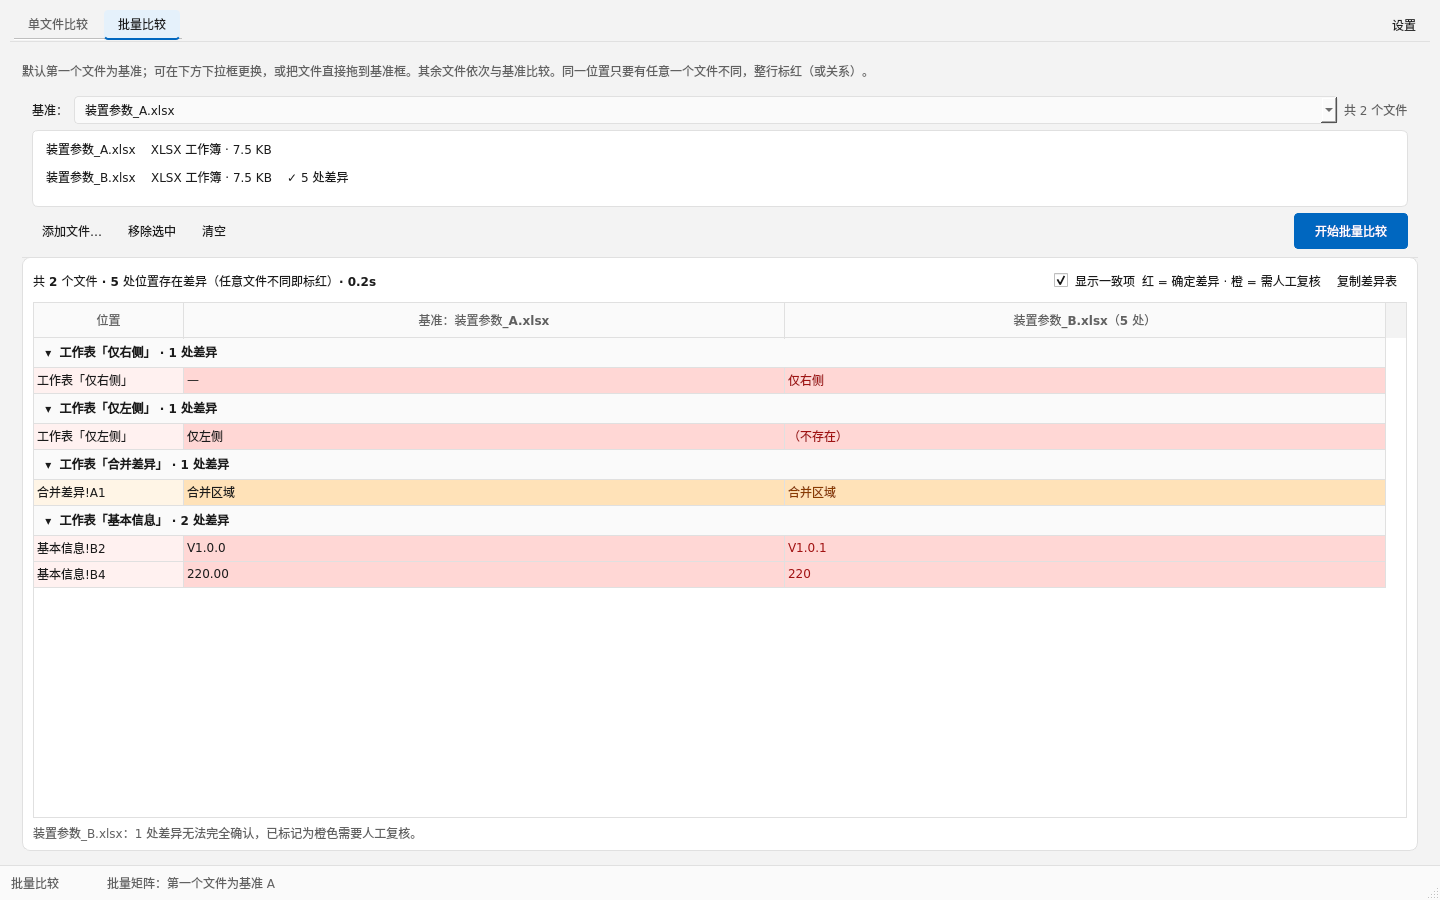
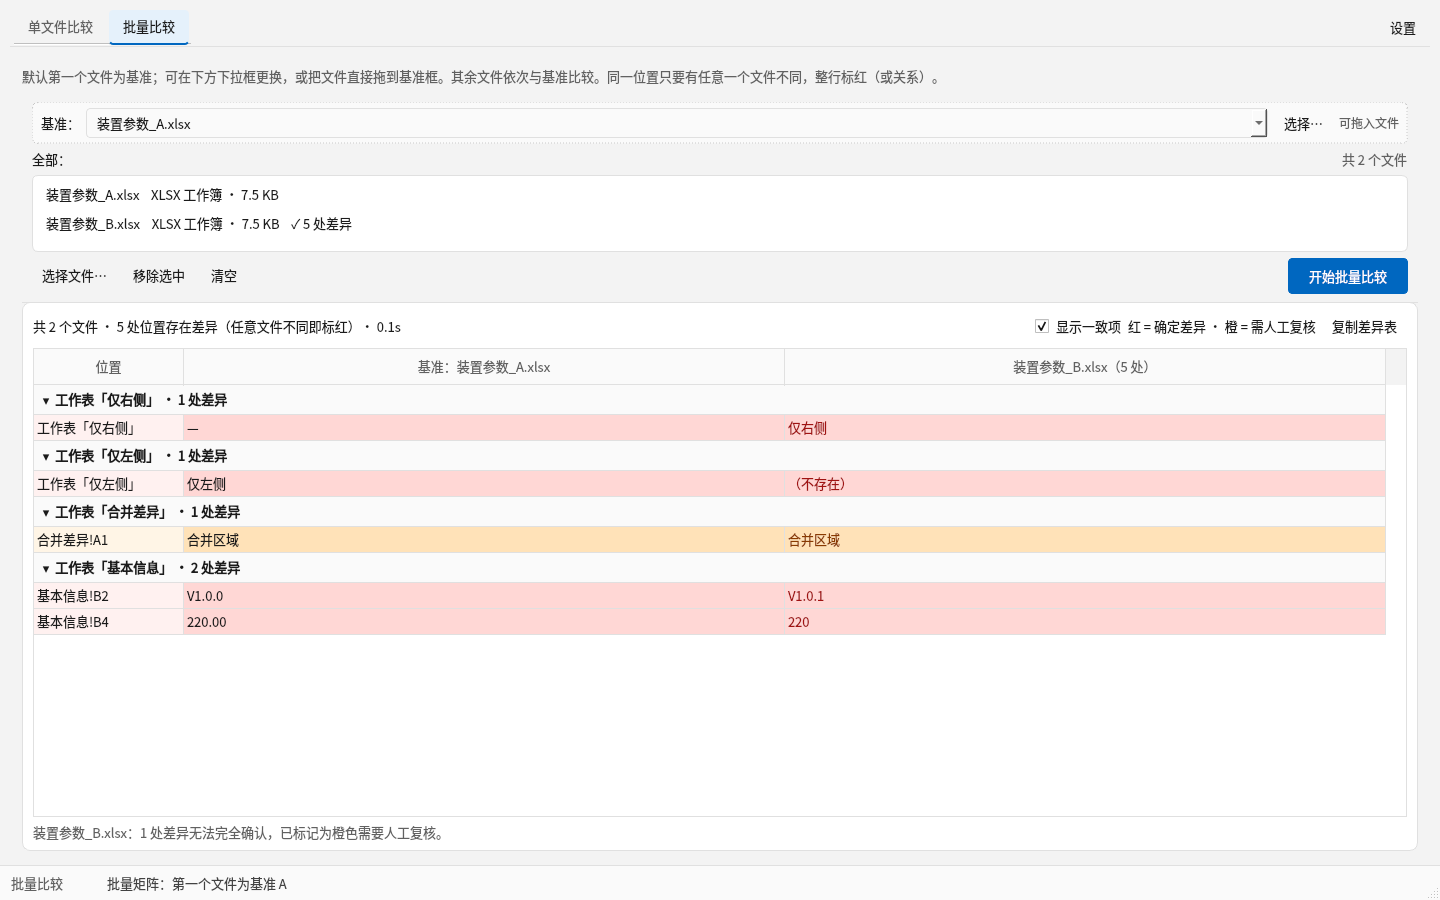
EngineerDiff 1.2.2: exact native title, baseline drop zone/all label/manual choices, unify Select buttons

diff --git a/src/engineerdiff/ui/batch_dialog.py b/src/engineerdiff/ui/batch_dialog.py
@@ -7,7 +7,7 @@ import threading
 import time
 from pathlib import Path
 
-from PySide6.QtCore import QThread, Qt, Signal
+from PySide6.QtCore import QEvent, QThread, Qt, Signal
 from PySide6.QtGui import QBrush, QColor, QDragEnterEvent, QDropEvent
 from PySide6.QtWidgets import (
     QAbstractItemView,
@@ -104,6 +104,103 @@ class _BaselineCombo(QComboBox):
             super().dropEvent(event)
 
 
+class _BaselineDropZone(QFrame):
+    """基准行：整行可接收资源管理器文件拖放（包括子控件上的拖放）。
+
+    QComboBox 自身会消费 Drag/Drop，且其弹出列表是独立窗口；因此在整行框架
+    安装递归事件过滤器，保证从“基准”文字、下拉框、提示或选择按钮上放下文件
+    都能被识别。
+    """
+
+    paths_dropped = Signal(list)
+
+    def __init__(self, parent=None):
+        super().__init__(parent)
+        self.setObjectName("baselineZone")
+        self.setAcceptDrops(True)
+        self._app_filter_installed = False
+
+    def install_drop_proxy(self) -> None:
+        widgets = [self, *self.findChildren(QWidget)]
+        for widget in widgets:
+            try:
+                widget.setAcceptDrops(True)
+                widget.installEventFilter(self)
+            except RuntimeError:
+                continue
+        # 某些平台/Qt 样式中，拖放事件目标可能是 QComboBox 的内部子控件；
+        # 再挂一层应用级过滤器，按“鼠标是否落在基准行”兜底。
+        try:
+            if not self._app_filter_installed:
+                from PySide6.QtWidgets import QApplication
+
+                app = QApplication.instance()
+                if app is not None:
+                    app.installEventFilter(self)
+                    self._app_filter_installed = True
+        except Exception:
+            pass
+
+    def _inside_zone(self, obj, event) -> bool:
+        if not self.isVisible():
+            return False
+        try:
+            pos = event.position().toPoint()
+        except Exception:
+            try:
+                pos = event.pos()
+            except Exception:
+                return False
+        try:
+            if isinstance(obj, QWidget):
+                global_pos = obj.mapToGlobal(pos)
+                return self.rect().contains(self.mapFromGlobal(global_pos))
+        except Exception:
+            pass
+        return False
+
+    @staticmethod
+    def _url_paths(mime) -> list[str]:
+        if mime is None or not mime.hasUrls():
+            return []
+        return [u.toLocalFile() for u in mime.urls() if u.isLocalFile()]
+
+    def _accept(self, event) -> bool:
+        if self._url_paths(event.mimeData()):
+            event.acceptProposedAction()
+            return True
+        return False
+
+    def eventFilter(self, obj, event):  # noqa: N802
+        etype = event.type()
+        if etype in (QEvent.Type.DragEnter, QEvent.Type.DragMove):
+            if self._accept(event) and (obj is self or isinstance(obj, QWidget) and self._inside_zone(obj, event)):
+                return True
+        elif etype == QEvent.Type.Drop:
+            paths = self._url_paths(event.mimeData())
+            if paths and (obj is self or isinstance(obj, QWidget) and self._inside_zone(obj, event)):
+                self.paths_dropped.emit(paths)
+                event.acceptProposedAction()
+                return True
+        return super().eventFilter(obj, event)
+
+    def dragEnterEvent(self, event: QDragEnterEvent) -> None:  # noqa: N802
+        if not self._accept(event):
+            super().dragEnterEvent(event)
+
+    def dragMoveEvent(self, event) -> None:  # noqa: N802
+        if not self._accept(event):
+            super().dragMoveEvent(event)
+
+    def dropEvent(self, event: QDropEvent) -> None:  # noqa: N802
+        paths = self._url_paths(event.mimeData())
+        if paths:
+            self.paths_dropped.emit(paths)
+            event.acceptProposedAction()
+        else:
+            super().dropEvent(event)
+
+
 class BatchWorker(QThread):
     progress = Signal(int, str)
     candidate_done = Signal(object)
@@ -192,16 +289,34 @@ class BatchCompareDialog(QDialog):
         fp = QVBoxLayout(file_panel)
         fp.setContentsMargins(10, 8, 10, 8)
         fp.setSpacing(6)
-        fph = QHBoxLayout()
+        self.baseline_zone = _BaselineDropZone()
+        self.baseline_zone.setMinimumHeight(42)
+        fph = QHBoxLayout(self.baseline_zone)
+        fph.setContentsMargins(8, 5, 8, 5)
+        fph.setSpacing(6)
         self.lbl_baseline = QLabel("基准：")
         fph.addWidget(self.lbl_baseline)
         self.combo_baseline = _BaselineCombo()
         self.combo_baseline.setMinimumWidth(220)
         self.combo_baseline.paths_dropped.connect(self._set_baseline_from_paths)
         fph.addWidget(self.combo_baseline, 1)
+        self.btn_pick_baseline = QPushButton("选择…")
+        self.btn_pick_baseline.setObjectName("tool")
+        self.btn_pick_baseline.setToolTip("手动选择基准文件；也可以直接把文件拖到这一行")
+        fph.addWidget(self.btn_pick_baseline)
+        self.lbl_baseline_hint = QLabel("可拖入文件")
+        fph.addWidget(self.lbl_baseline_hint)
+        self.baseline_zone.paths_dropped.connect(self._set_baseline_from_paths)
+        self.baseline_zone.install_drop_proxy()
+        fp.addWidget(self.baseline_zone)
+
+        all_head = QHBoxLayout()
+        self.lbl_all = QLabel("全部：")
+        all_head.addWidget(self.lbl_all)
+        all_head.addStretch(1)
         self.lbl_count = QLabel("共 0 个文件")
-        fph.addWidget(self.lbl_count)
-        fp.addLayout(fph)
+        all_head.addWidget(self.lbl_count)
+        fp.addLayout(all_head)
 
         self.file_list = _FileList()
         self.file_list.setMaximumHeight(150)
@@ -209,7 +324,7 @@ class BatchCompareDialog(QDialog):
         fp.addWidget(self.file_list, 1)
 
         btn_row = QHBoxLayout()
-        self.btn_add = QPushButton("添加文件…")
+        self.btn_add = QPushButton("选择文件…")
         self.btn_add.setObjectName("tool")
         self.btn_remove = QPushButton("移除选中")
         self.btn_remove.setObjectName("tool")
@@ -291,6 +406,7 @@ class BatchCompareDialog(QDialog):
         root.addLayout(close_row)
 
         self.btn_add.clicked.connect(self._choose_files)
+        self.btn_pick_baseline.clicked.connect(self._choose_baseline)
         self.btn_remove.clicked.connect(self._remove_selected)
         self.btn_clear.clicked.connect(self.file_list.clear)
         self.btn_start.clicked.connect(self._start)
@@ -324,6 +440,12 @@ class BatchCompareDialog(QDialog):
         self.lbl_summary.setStyleSheet(f"font-weight:600;color:{p.text};")
         self.lbl_status.setStyleSheet(f"color:{p.text_secondary};")
         self.lbl_result_empty.setStyleSheet(f"color:{p.text_secondary};")
+        self.lbl_all.setStyleSheet(f"font-weight:600;color:{p.text};")
+        self.lbl_baseline_hint.setStyleSheet(f"color:{p.text_secondary};font-size:9pt;")
+        self.baseline_zone.setStyleSheet(
+            f"QFrame#baselineZone {{ background:{p.secondary_surface};"
+            f"border:1px dashed {p.border_strong}; border-radius:6px; }}"
+        )
         self.table.setStyleSheet(
             f"QTableWidget {{ background:{p.card_bg}; border:1px solid {p.divider};"
             f"gridline-color:{p.divider}; color:{p.text}; }}"
@@ -395,6 +517,13 @@ class BatchCompareDialog(QDialog):
             except Exception:
                 continue
         self.lbl_status.setText("基准已切换；点击“重新比较”生成新的差异矩阵。")
+
+    def _choose_baseline(self) -> None:
+        path, _ = QFileDialog.getOpenFileName(
+            self, "选择基准文件（会自动加入全部文件）", "", SUPPORTED_DIALOG_FILTER
+        )
+        if path:
+            self._set_baseline_from_paths([path])
 
     def _choose_files(self) -> None:
         paths, _ = QFileDialog.getOpenFileNames(
@@ -544,6 +673,8 @@ class BatchCompareDialog(QDialog):
         self.btn_clear.setEnabled(not running)
         self.file_list.setEnabled(not running)
         self.combo_baseline.setEnabled(not running and self.file_list.count() > 0)
+        self.btn_pick_baseline.setEnabled(not running)
+        self.baseline_zone.setEnabled(not running)
         self.btn_cancel.setVisible(running)
         self.btn_cancel.setEnabled(running)
 

diff --git a/src/engineerdiff/ui/main_window.py b/src/engineerdiff/ui/main_window.py
@@ -57,7 +57,7 @@ from .workers import CompareWorker
 class MainWindow(QMainWindow):
     def __init__(self, parent=None):
         super().__init__(parent)
-        self.setWindowTitle(f"{version.APP_NAME} by {version.AUTHOR}")
+        self.setWindowTitle(version.WINDOW_TITLE)
         self.resize(1440, 900)
         self.setMinimumSize(1050, 680)
         self._settings = AppSettings()
@@ -102,6 +102,17 @@ class MainWindow(QMainWindow):
         self._update_ui_state()
 
     # ================================================================== UI
+    def showEvent(self, event) -> None:  # noqa: N802
+        super().showEvent(event)
+        # 某些 Windows/Qt 组合会把 applicationDisplayName 追加到原生标题；
+        # 显示后强制写一次 HWND 文本，保证标题栏就是用户要求的精确文本。
+        try:
+            from PySide6.QtCore import QTimer
+
+            QTimer.singleShot(0, lambda: theme.set_native_title(self, version.WINDOW_TITLE))
+        except Exception:
+            pass
+
     def _build_ui(self) -> None:
         central = QWidget()
         self.setCentralWidget(central)
@@ -152,8 +163,8 @@ class MainWindow(QMainWindow):
         row1.setSpacing(6)
         self.left_edit = self._make_path_edit("选择基准文件 A（左）")
         self.right_edit = self._make_path_edit("选择待比较文件 B（右）")
-        self.btn_pick_left = self._tool_button("选择 A…", "选择基准文件 A")
-        self.btn_pick_right = self._tool_button("选择 B…", "选择待比较文件 B")
+        self.btn_pick_left = self._tool_button("选择", "选择基准文件 A")
+        self.btn_pick_right = self._tool_button("选择", "选择待比较文件 B")
         self.btn_reload_left = self._tool_button("↻", "重新加载 A 并重新比较")
         self.btn_reload_right = self._tool_button("↻", "重新加载 B 并重新比较")
         self.btn_swap = self._tool_button("⇄", "交换左右文件")

diff --git a/tests/test_ui_fluent.py b/tests/test_ui_fluent.py
@@ -42,7 +42,9 @@ def test_main_navigation_and_dark_theme(qapp):
     win = MainWindow()
     win.show()
     qapp.processEvents()
-    assert win.windowTitle() == "EngineerDiff by jzh"
+    assert win.windowTitle() == "EngineerDiff工程文件差异比较 by jzh"
+    assert win.btn_pick_left.text() == "选择"
+    assert win.btn_pick_right.text() == "选择"
     assert win.pages.count() == 2
     assert win.nav.count() == 2
     win.nav.setCurrentIndex(1)
@@ -119,4 +121,26 @@ def test_batch_baseline_can_be_set_from_drop_paths(qapp, tmp_path: Path):
     dlg._add_paths([str(c)])
     dlg._set_baseline_from_paths([str(c)])
     assert Path(dlg.combo_baseline.currentData()).resolve() == c.resolve()
+    assert dlg.lbl_all.text() == "全部："
+    assert dlg.file_list.count() == 3
+    dlg.close()
+
+
+@pytest.mark.gui
+def test_baseline_drop_event_is_handled(qapp, tmp_path: Path):
+    from PySide6.QtCore import QMimeData, QPointF, Qt, QUrl
+    from PySide6.QtGui import QDropEvent
+
+    from engineerdiff.ui.batch_dialog import BatchCompareDialog
+
+    a = tmp_path / "a.txt"; a.write_text("a\n", encoding="utf-8")
+    c = tmp_path / "c.txt"; c.write_text("c\n", encoding="utf-8")
+    dlg = BatchCompareDialog(None, AppSettings(), str(a))
+    dlg.show()
+    qapp.processEvents()
+    mime = QMimeData(); mime.setUrls([QUrl.fromLocalFile(str(c))])
+    event = QDropEvent(QPointF(12, 12), Qt.DropAction.CopyAction, mime,
+                       Qt.MouseButton.LeftButton, Qt.KeyboardModifier.NoModifier)
+    assert dlg.baseline_zone.eventFilter(dlg.combo_baseline, event) is True
+    assert dlg.file_list.count() == 2
     dlg.close()

diff --git a/src/engineerdiff/ui/theme.py b/src/engineerdiff/ui/theme.py
@@ -297,6 +297,17 @@ def apply_theme(mode_name: str | None = None, app=None) -> Palette:
     return _ACTIVE
 
 
+def set_native_title(window, text: str) -> None:
+    """Windows: 将原生标题栏文本精确设置为 ``text``，避免 Qt 追加应用显示名。"""
+    if sys.platform != "win32":
+        return
+    try:
+        hwnd = int(window.winId())
+        ctypes.windll.user32.SetWindowTextW(hwnd, str(text))
+    except Exception:
+        pass
+
+
 def apply_dark_title_bar(window) -> None:
     """Windows 10/11: 让原生标题栏跟随深色主题；失败时静默忽略。"""
     if sys.platform != "win32":

diff --git a/src/engineerdiff/app.py b/src/engineerdiff/app.py
@@ -71,7 +71,6 @@ def main(argv: list[str] | None = None) -> int:
         pass
     app = QApplication(argv)
     app.setApplicationName(version.APP_NAME)
-    app.setApplicationDisplayName(version.APP_NAME_CN)
     app.setOrganizationName(version.ORG_NAME)
     app.setApplicationVersion(version.__version__)
     app.setStyle("Fusion")

diff --git a/src/engineerdiff/version.py b/src/engineerdiff/version.py
@@ -1,6 +1,7 @@
 """版本信息。构建时由脚本校验。"""
-__version__ = "1.2.1"
+__version__ = "1.2.2"
 APP_NAME = "EngineerDiff"
 APP_NAME_CN = "EngineerDiff 工程文件差异比较"
 ORG_NAME = "EngineerDiff"
 AUTHOR = "jzh"
+WINDOW_TITLE = f"{APP_NAME}工程文件差异比较 by {AUTHOR}"

diff --git a/README.md b/README.md
@@ -54,7 +54,7 @@ Paddle / ONNX Runtime**。
 
 ![关于 EngineerDiff：by jzh](docs/screenshots/about.png)
 
-改造前后对比（左侧 1.1.0，右侧 1.2.1）：
+改造前后对比（左侧 1.1.0，右侧 1.2.2）：
 
 ![UI 改造前后对比](docs/screenshots/ui-before-after.png)
 
@@ -67,7 +67,7 @@ Paddle / ONNX Runtime**。
 ## 安装与使用
 
 1. 从 [GitHub Releases](https://github.com/youyoudezhuzhu/engineerdiff/releases/latest) 下载并运行
-   `EngineerDiff-1.2.1-Setup-x64.exe`（或解压便携版 zip，保持 `_internal` 目录完整）；
+   `EngineerDiff-1.2.2-Setup-x64.exe`（或解压便携版 zip，保持 `_internal` 目录完整）；
 2. 选择或拖入左右文件；**拖入后自动比较**（图片先显示原图，再 OCR），截图可 Ctrl+V 粘贴；
 3. 用“上一处/下一处”或 F7/F8 查看差异；需要时点击“重新比较”；
    点击顶部 **“批量比较”** 标签可选择一个基准 + 多个候选文件，一次查看所有差异；
@@ -139,14 +139,14 @@ QT_QPA_PLATFORM=offscreen .venv/bin/python -m pytest -q
 1. 运行 **Windows Build & Release**（push `main` 或手动 `workflow_dispatch`）；
 2. 流程：依赖断言 → 全量 pytest（含 OCR）→ PyInstaller onedir → 打包后 `--self-test` →
    Inno Setup → **静默安装 → 安装后 `--self-test` → 静默卸载** → artifact；
-3. 推送 `v1.2.1` tag 自动发布 GitHub Release（安装包、便携 zip、SHA-256）。
+3. 推送 `v1.2.2` tag 自动发布 GitHub Release（安装包、便携 zip、SHA-256）。
 
 本地 Windows 构建（需要 Python 3.11、Inno Setup 6）：
 
 ```powershell
 powershell -ExecutionPolicy Bypass -File scripts\build_windows.ps1
-# 产物：release\EngineerDiff-1.2.1-Setup-x64.exe
-#       release\EngineerDiff-1.2.1-portable-win64.zip
+# 产物：release\EngineerDiff-1.2.2-Setup-x64.exe
+#       release\EngineerDiff-1.2.2-portable-win64.zip
 #       release\sha256sums.txt
 ```
 

diff --git a/docs/windows-defender.md b/docs/windows-defender.md
@@ -13,7 +13,7 @@ EngineerDiff 是**未签名的开源 Windows 工具**。软件本身不包含联
 从 GitHub Release 下载后，用 PowerShell 校验：
 
 ```powershell
-Get-FileHash .\EngineerDiff-1.2.1-Setup-x64.exe -Algorithm SHA256
+Get-FileHash .\EngineerDiff-1.2.2-Setup-x64.exe -Algorithm SHA256
 ```
 
 与 Release 页面或 `sha256sums.txt` 中的 SHA-256 对比；一致才继续。
@@ -50,7 +50,7 @@ Remove-MpPreference -ExclusionPath "$env:LOCALAPPDATA\Programs\EngineerDiff"
 
 ## 4. 使用便携版 / 重新下载
 
-- 若安装包被拦，可尝试 `EngineerDiff-1.2.1-portable-win64.zip`；
+- 若安装包被拦，可尝试 `EngineerDiff-1.2.2-portable-win64.zip`；
 - 删除隔离区中的旧文件后重新下载并校验 SHA-256，避免使用损坏/被改写的副本；
 - 企业环境可通过 Intune/组策略下发签名后的版本，或添加应用白名单。
 
@@ -64,7 +64,7 @@ $env:ENGINEERDIFF_SIGN_PASSWORD = "***"
 powershell -ExecutionPolicy Bypass -File scripts\sign_release.ps1
 ```
 
-脚本会签名 `dist\EngineerDiff\EngineerDiff.exe` 与 `release\EngineerDiff-1.2.1-Setup-x64.exe`
+脚本会签名 `dist\EngineerDiff\EngineerDiff.exe` 与 `release\EngineerDiff-1.2.2-Setup-x64.exe`
 并做时间戳；签名后重新计算 `sha256sums.txt` 并重新上传 Release。
 
 ## 6. 已知限制

diff --git a/packaging/README.md b/packaging/README.md
@@ -43,8 +43,8 @@ scripts/build_linux_check.sh --skip-self-test
 
 ```text
 dist\EngineerDiff\EngineerDiff.exe                     PyInstaller one-dir（含 _internal\）
-release\EngineerDiff-1.2.1-Setup-x64.exe               Inno Setup 安装包（默认 per-user）
-release\EngineerDiff-1.2.1-portable-win64.zip          便携版 zip
+release\EngineerDiff-1.2.2-Setup-x64.exe               Inno Setup 安装包（默认 per-user）
+release\EngineerDiff-1.2.2-portable-win64.zip          便携版 zip
 release\sha256sums.txt                                 以上文件的 SHA-256
 build\windows-build-summary.json                       构建摘要（版本/ISCC/大小/哈希）
 build\self-test-report.json                            dist 产物自检报告

diff --git a/docs/code-signing.md b/docs/code-signing.md
@@ -79,5 +79,5 @@ CODE_SIGN_PFX_PASSWORD
 - 虚拟机；
 - 等待签名版发布。
 
-当前 [v1.2.1 Release](https://github.com/youyoudezhuzhu/engineerdiff/releases) 是未签名构建，
+当前 [v1.2.2 Release](https://github.com/youyoudezhuzhu/engineerdiff/releases) 是未签名构建，
 请仅在你信任来源的前提下核对 SHA-256 后使用。
